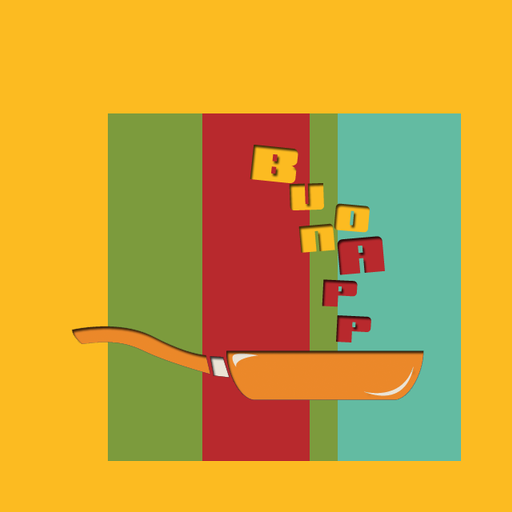
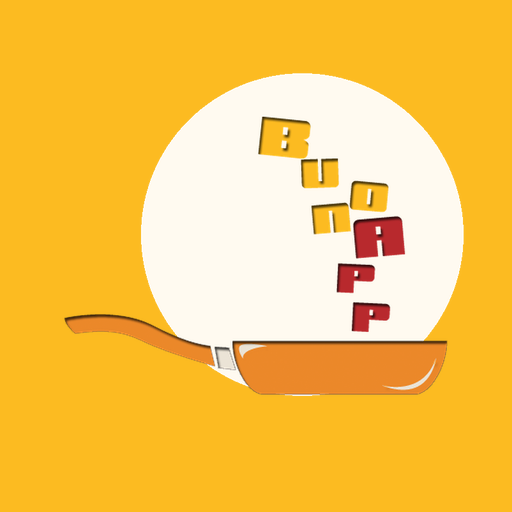
Icone dell'app con la padella sul piatto: su Android una sola schermata di avvio
Claude-Session: https://claude.ai/code/session_01PbboqK6fcDJ7DPhEEktvVj

diff --git a/sw.js b/sw.js
@@ -1,6 +1,6 @@
 // Service worker di buonApp: l'app si apre anche senza rete e mostra l'ultimo menu visto.
 // Cambiare VERSIONE a ogni rilascio che modifica i file dell'interfaccia.
-const VERSIONE = 'buonapp-v11';
+const VERSIONE = 'buonapp-v12';
 const GUSCIO = [
   './',
   'index.html',

diff --git a/docs/avvio/genera.py b/docs/avvio/genera.py
@@ -45,6 +45,20 @@ ImageDraw.Draw(quadro).ellipse((cx - r, cy - r, cx + r, cy + r), fill=PIATTO + (
 quadro.alpha_composite(p, ((Q - p.width) // 2, (Q - p.height) // 2))
 quadro.save(RADICE / 'img/padella-piatto.png', optimize=True)
 
+# Icone dell'app: la stessa composizione su fondo giallo, così la schermata di sistema di Android
+# (icona sul colore di fondo) coincide con quella di avvio. La maskable resta dentro il cerchio sicuro.
+def icona(lato, quota, nome):
+    f = Image.new('RGBA', (lato, lato), GIALLO + (255,))
+    w = int(lato * quota)
+    f.alpha_composite(quadro.resize((w, w), Image.LANCZOS), ((lato - w) // 2, (lato - w) // 2))
+    f.convert('RGB').save(RADICE / 'img' / nome, optimize=True)
+
+icona(512, 1.15, 'icona-512.png')
+icona(192, 1.15, 'icona-192.png')
+icona(180, 1.15, 'apple-touch-icon.png')
+icona(32, 1.3, 'favicon-32.png')
+icona(512, 0.9, 'icona-maskable-512.png')
+
 for w, h, d in IPHONE:
     crea(w, h, d, 'portrait')
 for w, h, d in IPAD:

diff --git a/SVILUPPO.md b/SVILUPPO.md
@@ -80,7 +80,8 @@ Grafiche originali in `buonapp-grafiche/` nei file del progetto (icona, banner, 
 
 - Palette: giallo, verde oliva, rosso, verde acqua + arancio della padella.
 - Colori per fascia (dal banner): nidi rosso, infanzia verde, primaria giallo, secondaria acqua.
-- Logo «BuonApp» con le lettere che cadono nella padella → icona della PWA.
+- Logo «BuonApp» con le lettere che cadono nella padella. Icona della PWA (dal 27/10/2026): padella su piatto chiaro e fondo giallo,
+  come la schermata di avvio, così su Android la schermata di sistema e quella dell'app coincidono.
 - Slogan: «Che si mangia oggi a scuola?».
 - Nella PWA: testo scuro su fondo chiaro, il colore della fascia solo come bordo (contrasto sufficiente);
   font di sistema per i testi; strisce del banner come fascia sotto la testata.
